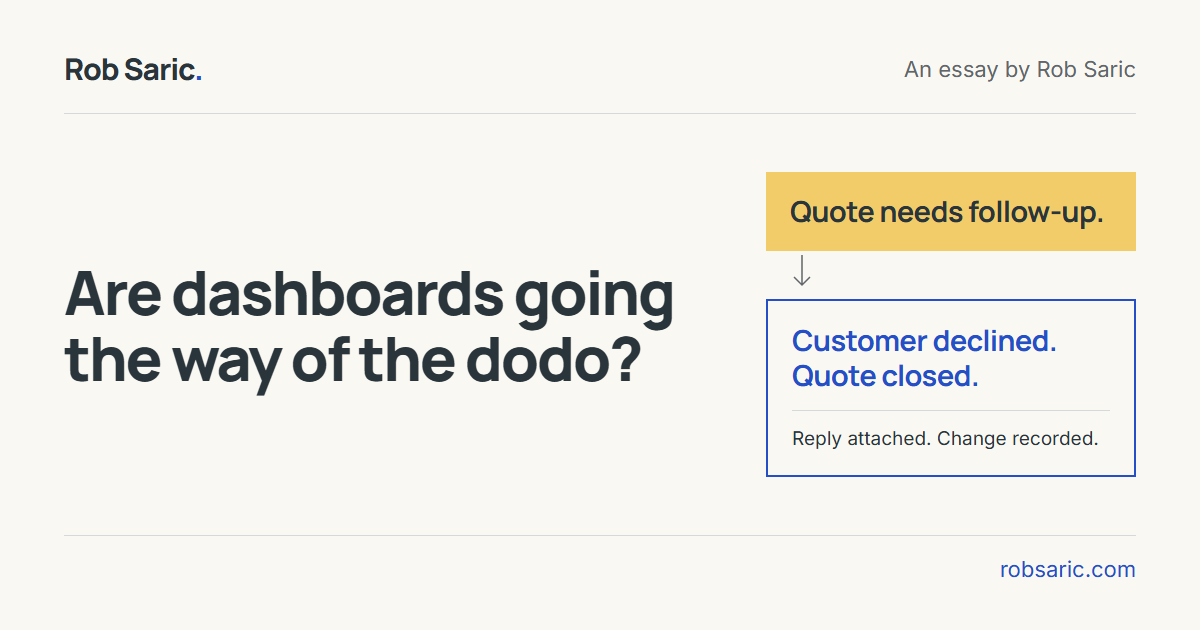
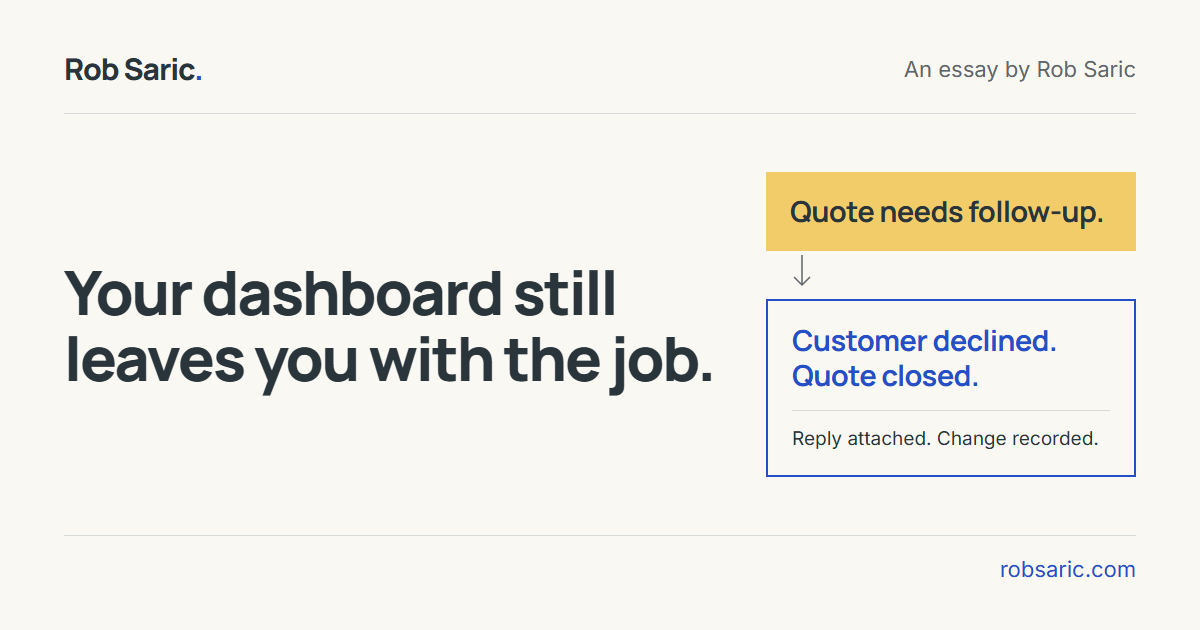
Shorten dashboard essay and make design notes optional

Changed region(s): [[0.0308, 0.4222, 0.5858, 0.6333]]

diff --git a/src/data/dashboard-sketch.ts b/src/data/dashboard-sketch.ts
@@ -14,33 +14,37 @@ export const DASHBOARD_SKETCH = {
 
 export const ACTION_REVIEW = {
   heading: 'Know which work is actually finished.',
-  introduction: 'A proposed daily view for the renovation company in this essay.',
+  introduction: 'A proposed daily view for this imagined company.',
+  statusLabel: 'Status',
+  eventLabel: 'What happened',
+  expandLabel: 'See my design notes',
+  seriesLabel: 'What I’d change',
   viewLabel: 'What you would see',
   notesLabel: 'Why I’d design it this way',
   nextLabel: 'What needs you',
   rows: [
     {
-      status: 'Recorded', event: 'The customer declined.',
+      status: 'Recorded', event: 'Customer declined.',
       next: 'Nothing. The quote is closed, with the message attached.',
       noteHeading: 'Keep the evidence close.',
       note: 'I’d put the customer’s reply beside the closed quote. You can check the reason without hunting through your inbox.',
     },
     {
-      status: 'Your decision', event: 'The customer asked for a lower price.',
-      next: 'Review the proposed reply. Nothing has been sent.',
+      status: 'Your decision', event: 'Customer asked for a lower price.',
+      next: 'Check the margin. Approve or edit the draft reply.',
       noteHeading: 'Leave the price with you.',
       note: 'The tool can prepare a reply. You know whether you can afford the discount. Nothing goes out until you decide.',
     },
     {
       status: 'Partly completed', event: 'Reply sent. Quote update failed.',
-      next: 'Check the saved quote. Retry the record update, not the email.',
+      next: 'Retry the record update without resending the email.',
       noteHeading: 'Say which part failed.',
       note: '“Try again” is too vague here. I’d offer to save the quote again, with the sent email left alone.',
     },
   ],
   tradeoffHeading: 'The trade-off I’d accept',
   tradeoff: 'This takes more space than a green tick. I’d accept that. You need enough detail to trust the work, and a way to open the full record when something looks wrong.',
-  caption: 'An illustrative design, using the hypothetical example above. These are proposed behaviours, not a working product or customer results.',
+  caption: 'Proposed view for this imagined company.',
 } as const;
 
 export const DASHBOARD_NEXT_JOB = {

diff --git a/src/data/now.ts b/src/data/now.ts
@@ -16,7 +16,7 @@ export interface NowItem {
 export const NOW_ITEMS: NowItem[] = [
   {
     kicker: 'Writing',
-    title: 'Are dashboards going the way of the dodo?',
+    title: 'Your dashboard still leaves you with the job.',
     blurb: 'Why a chart is only the start of helping a small team get the work done.',
     href: '/field-notes/2026-10-19-are-dashboards-dead/',
   },

diff --git a/docs/what-id-change-direction.md b/docs/what-id-change-direction.md
@@ -32,3 +32,19 @@ The bounded browser review covered home, Writing, About and the dashboard essay 
 The new figure is complete in the built HTML and has no JavaScript or motion. Its reading order and the existing global reduced-motion rules were inspected in source; no new runtime no-JavaScript or reduced-motion simulation was performed. No live email submission was made. The local preview uses only the public form-action setting, without email-service credentials.
 
 The independent source/copy and screenshot finish review returned `ship`, with no material findings. Evidence is saved locally under `.impeccable/review/what-id-change/`; full-page captures can leave lazily loaded photographs blank and include Astro’s development toolbar. The article’s full 900px capture supplied the intermediate review because its separate detail capture was malformed. These are review evidence, not public marketing assets. No Impeccable detector ran because its launcher is unavailable. No production publishing is included.
+
+## October 22 revision: short note, optional design detail
+
+Rob confirmed Grill Q27–29. This supersedes the earlier requirement to keep the title and share card intact and to show every annotation in the main reading flow.
+
+- Headline: “Your dashboard still leaves you with the job.”
+- The main prose is 304 words, based on Rob’s supplied draft and informed by his own writing from the shared Drive folder. One explicitly imagined renovation-company story carries the argument; no invented experience is attributed to Rob.
+- A compact proposed view distinguishes a recorded decision, a price request requiring judgement and a partially completed task. The longer annotations move into a native “See my design notes” expansion, closed by default.
+- Existing homepage and Writing links to `#what-id-change` open that expansion. Without JavaScript, readers can still open it using the native control.
+- The vendor survey becomes a brief further-reading credit to Attio and Julien Bek at Sequoia. The original article URL and October 19 publication date remain; October 22 appears as the update date.
+- The summary, description, Now title and share card use the revised framing. The social-image version changes to refresh cached cards. The newsletter promise and confirmation service are unchanged.
+- This revision is a local preview. No push, merge or production deployment is included.
+
+The full site gate passed, including subscription fixtures, copy lint, Astro diagnostics, build, redirects, notes, share cards and layout checks. The article, homepage and Writing page were inspected at 1440, 900 and 390 pixels: one H1, no horizontal overflow and complete writing selections. Native expansion controls work with Enter and Space; the direct feature link opens the notes. Homepage controls have visible keyboard focus, and Escape closes the mobile menu.
+
+The independent editorial review found no material copy or source issues. Screenshots are saved locally under `.impeccable/review/shorter-dashboard/`. Native no-JavaScript behavior and existing reduced-motion rules were reviewed in source, without a new runtime simulation. No email was submitted or sent.

diff --git a/PRODUCT.md b/PRODUCT.md
@@ -13,3 +13,5 @@ The site is Astro static, with self-hosted fonts, optimized local images and sma
 Rob approved the next editorial refinement on October 19 (Grill Q15–17): What I believe replaces clinic principles; the dashboard essay receives a featured introduction and useful diagram, with supporting readings compact; warm paper and dark text now extend throughout the site. Preserve the approved homepage opening and Building page. See `docs/editorial-refinement-2026-10-19.md` for the scoped override to the earlier reading palette and equal-row presentation.
 
 Rob approved “What I’d change” as a recurring feature on October 21 (Grill Q24–26): examine a task, show a proposed design and explain the choices and trade-offs. Start with the dashboard essay’s labelled hypothetical example, using a few useful notebook annotations within the current identity. See `docs/what-id-change-direction.md`. The feature demonstrates reasoning; it does not invent customer stories or product outcomes.
+
+On October 22 (Grill Q27–29), Rob approved shortening the dashboard essay to one concrete story, with a compact proposed view and optional design notes. The title and share card change together; the article URL and original publication date remain. The October 22 section in `docs/what-id-change-direction.md` supersedes the earlier always-visible annotations. This revision requires a local preview before publishing.
